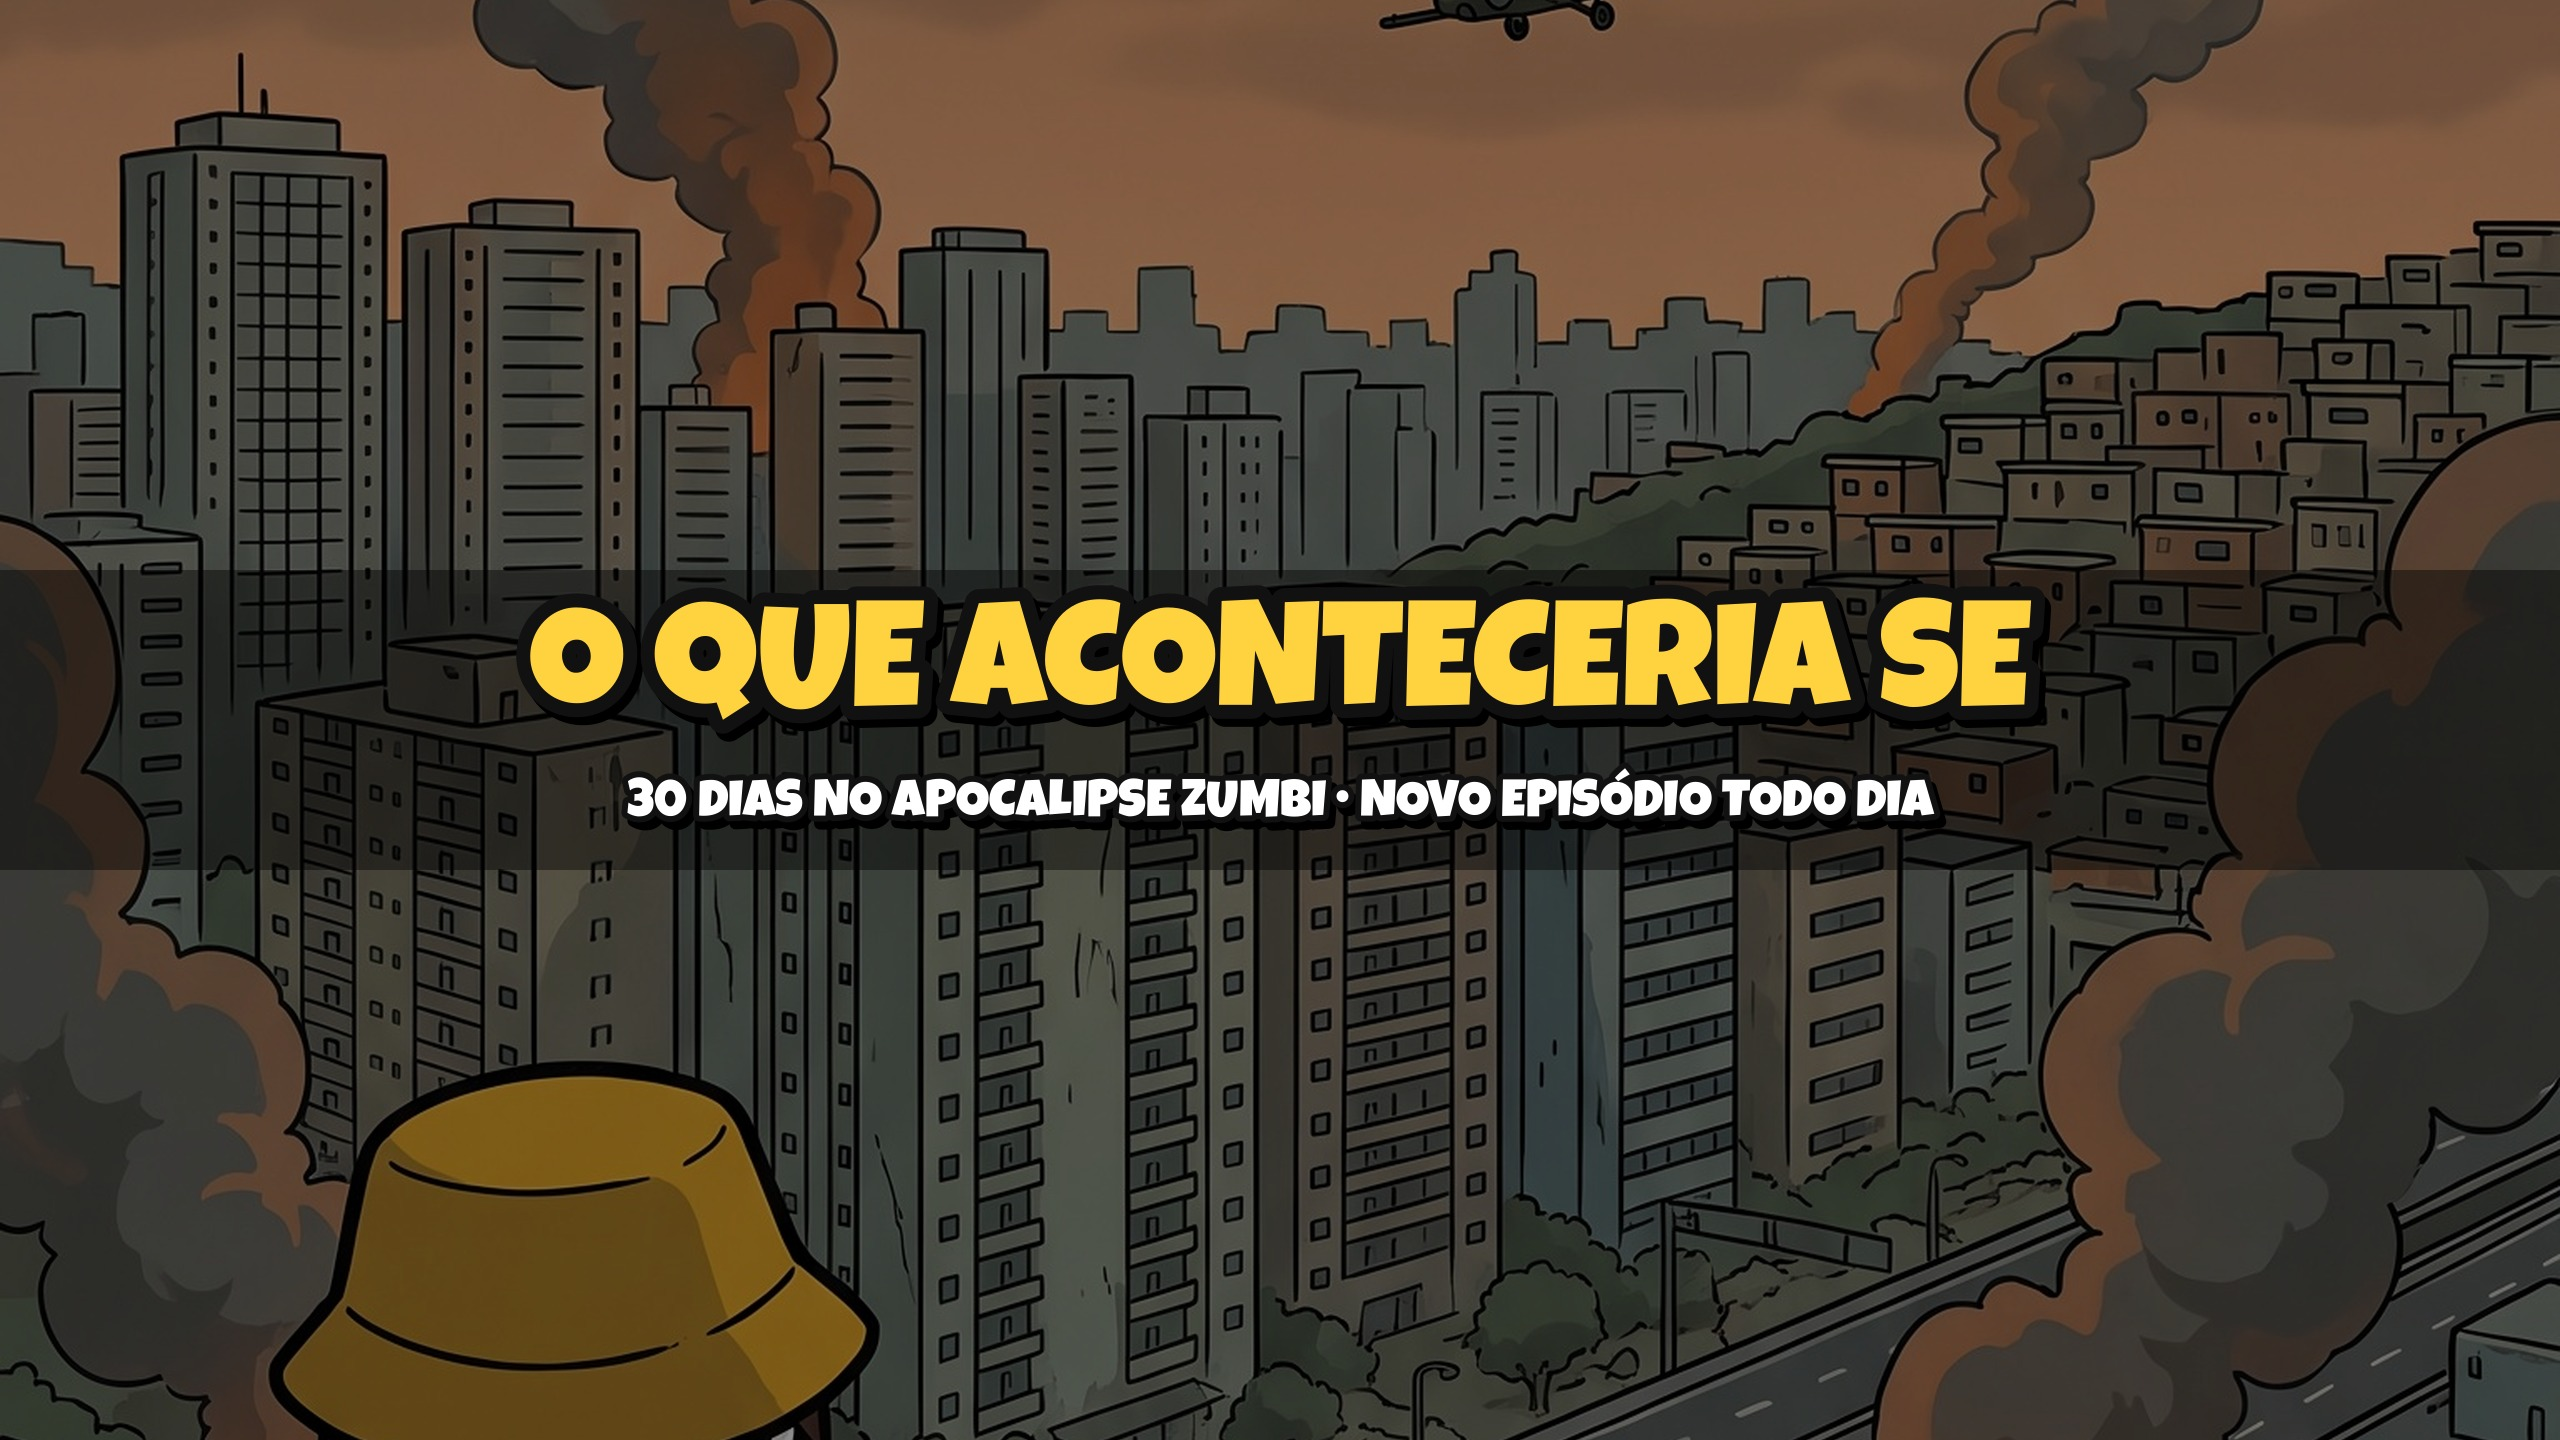
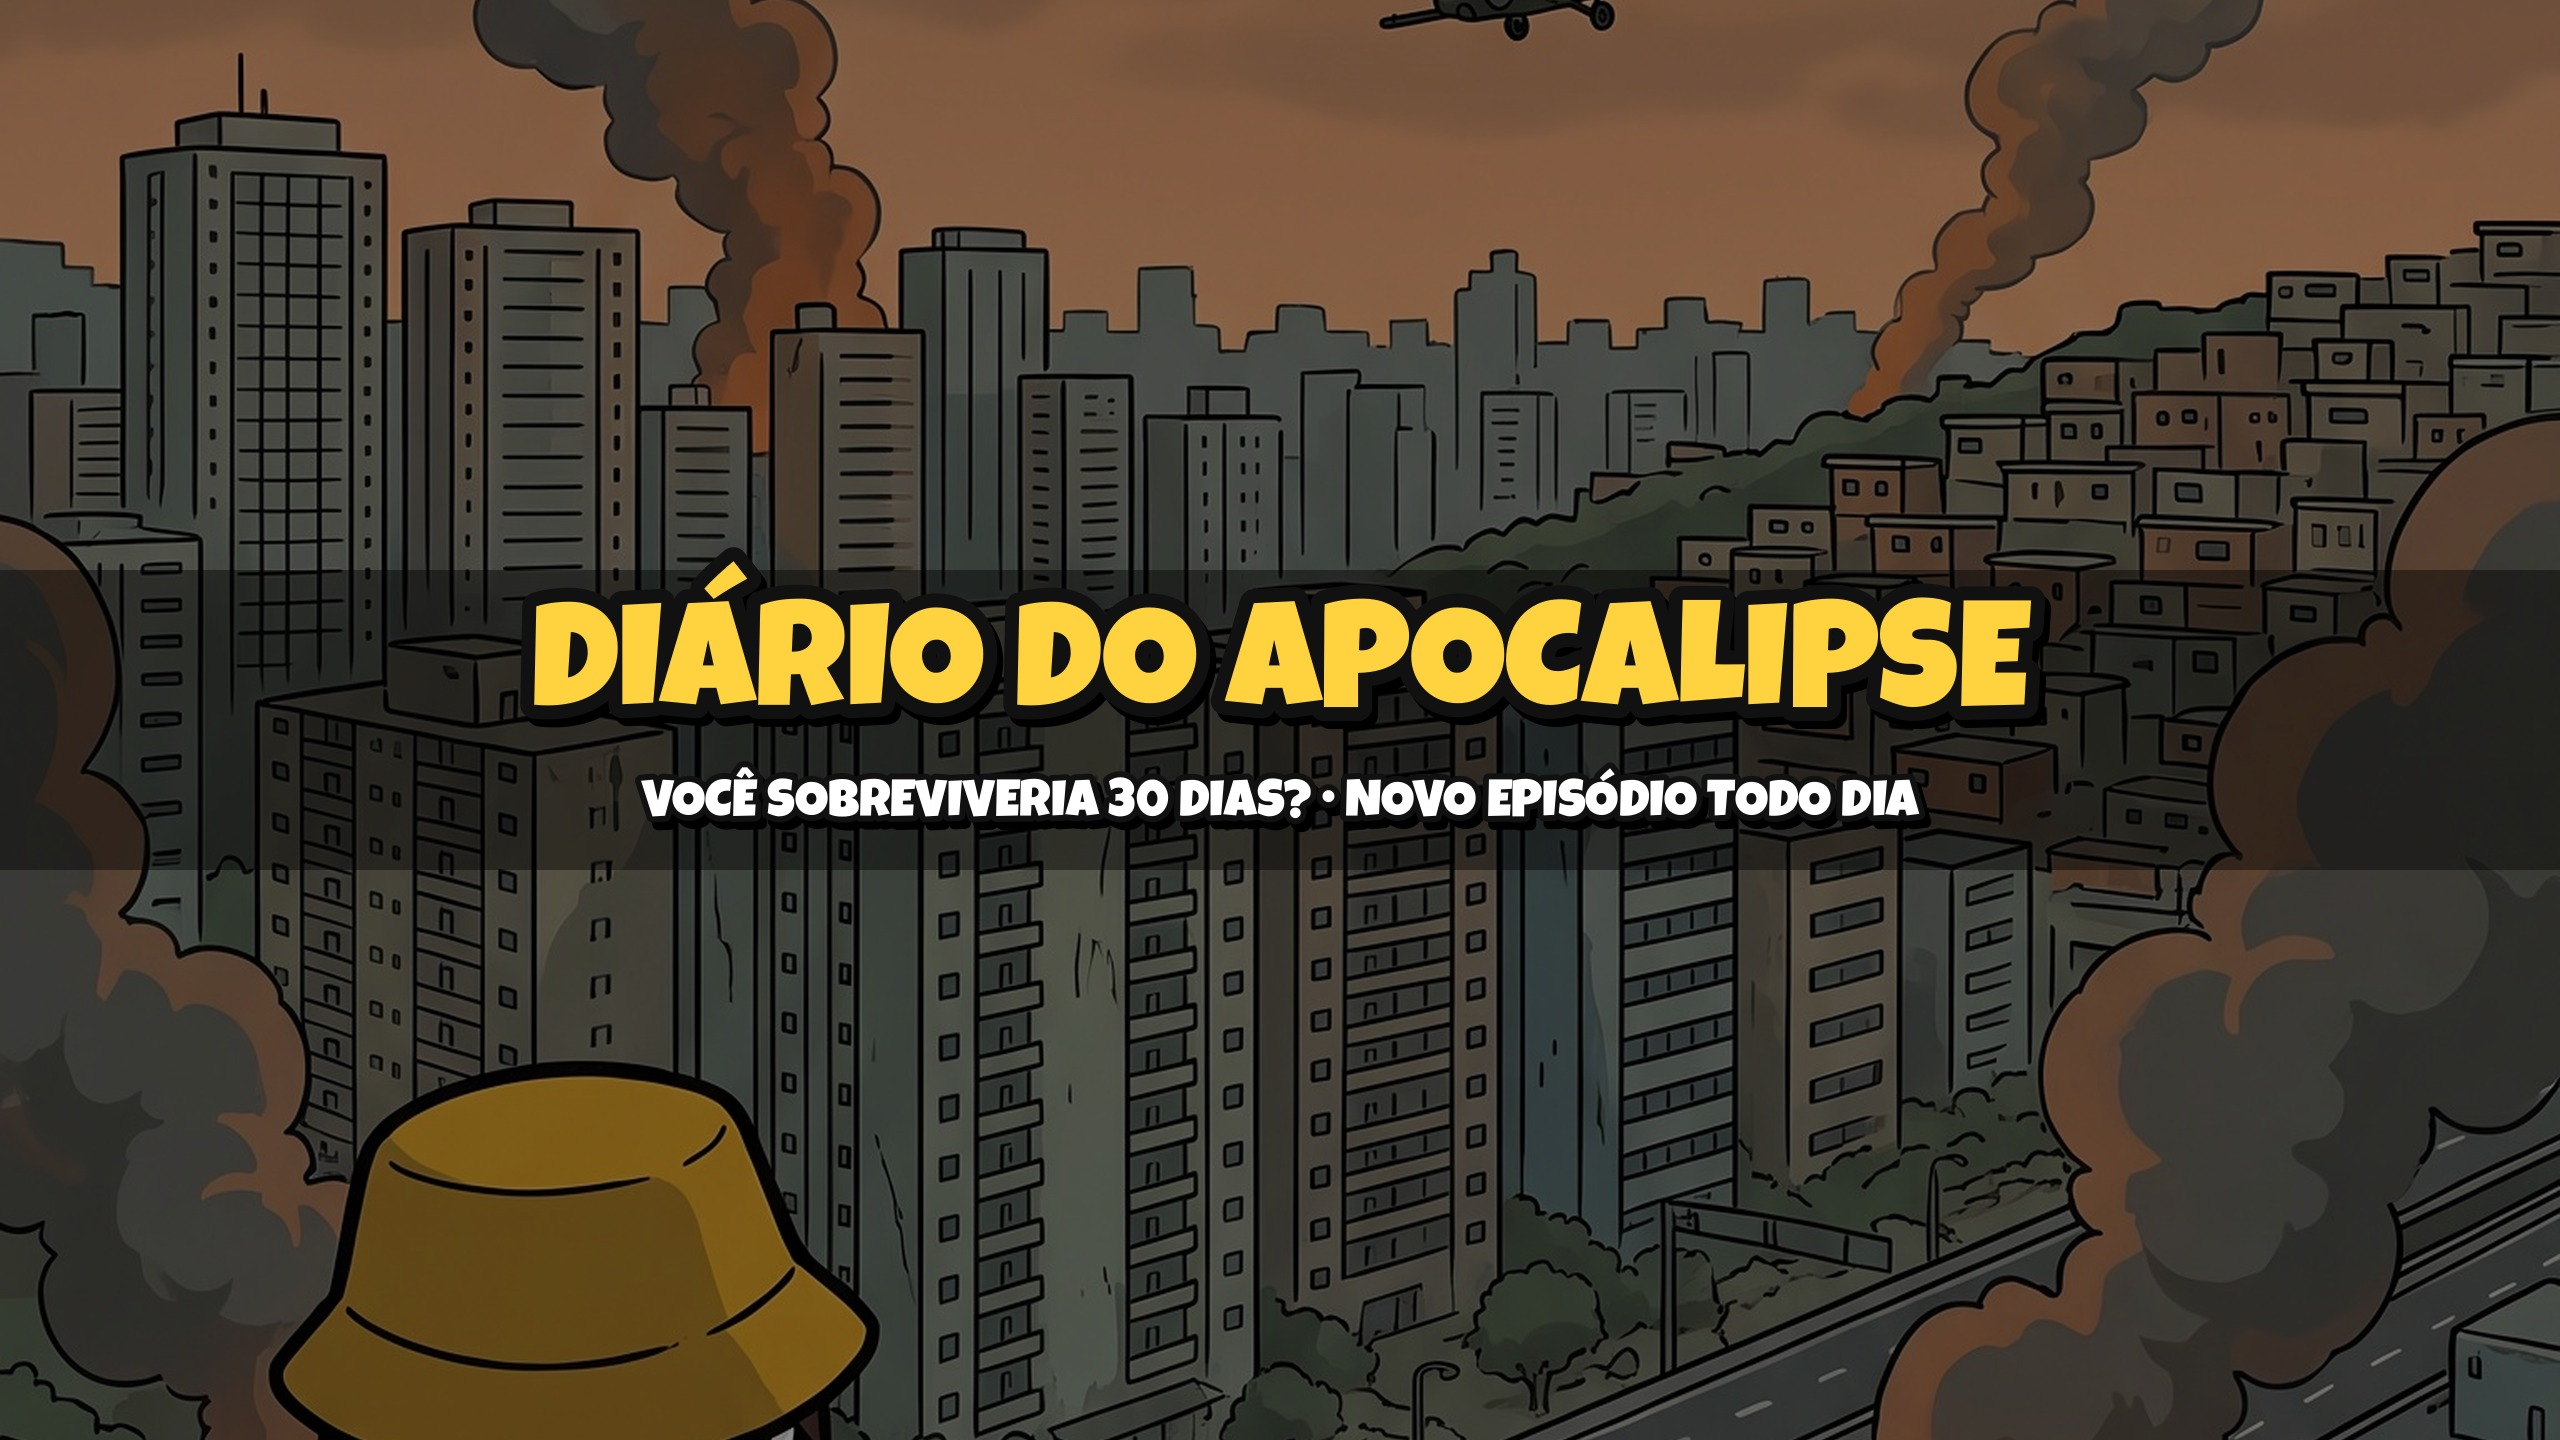
Apocalipse 30 dias: dedicated Instagram profile kit, YouTube rebranded to match
Claude-Session: https://claude.ai/code/session_012b6JD1nWYLGgg986qYVLAd

Changed region(s): [[0.1875, 0.375, 0.7812, 0.5938]]

diff --git a/films/apocalipse-30-dias/instagram/INSTAGRAM.md b/films/apocalipse-30-dias/instagram/INSTAGRAM.md
@@ -1,0 +1,49 @@
+# Perfil novo no Instagram (só a série)
+
+## Nome e @
+
+- **Nome:** Diário do Apocalipse Zumbi
+  (A busca do Instagram lê o nome, então quem procurar "apocalipse zumbi" te acha.)
+- **@:** diariodoapocalipse
+  - Se estiver ocupado: diariodoapocalipse.br → diario.do.apocalipse → apocalipsezumbi.br
+- **Por que esse nome:** um diário é "um dia por episódio". E continua servindo na temporada 2 (o Dia 31 que o Dia 30 promete), coisa que um nome com "30 dias" não faria.
+- **No YouTube:** use o mesmo nome e @. Assim é uma marca só nos dois lugares (`youtube/` já está com o banner novo).
+
+## Bio (copiar e colar)
+
+```
+🧟 E se o apocalipse zumbi começasse hoje no Brasil?
+📅 1 episódio = 1 dia
+🐕 Você e o Caramelo sobrevivem 30 dias?
+👇 Comece pelo Dia 1
+```
+
+- **Link:** o canal do YouTube.
+- **Categoria (conta profissional, de criador):** "Artista digital" ou "Criador de vídeos".
+
+## Imagens
+
+- **Foto de perfil:** `FOTO_PERFIL_1080.png` (você + o Caramelo, mãos de zumbi, céu em chamas)
+- **Capas dos destaques:**
+
+| Arquivo | Nome do destaque | O que guardar |
+|---|---|---|
+| `DESTAQUE_1_COMECE_AQUI.jpg` | COMECE AQUI | os Dias 1, 2 e 3 repostados nos Stories |
+| `DESTAQUE_2_BIA.jpg` | BIA | os episódios com a Bia |
+| `DESTAQUE_3_CARAMELO.jpg` | CARAMELO | os momentos do Caramelo (é o que mais compartilha) |
+| `DESTAQUE_4_CORONEL.jpg` | CORONEL | os episódios do vilão |
+| `DESTAQUE_5_REGRAS.jpg` | REGRAS | as regras dos zumbis + as enquetes |
+
+## Lançamento
+
+1. No primeiro dia, poste os Dias 1, 2 e 3 de uma vez. Quem chega no perfil maratona, e um perfil vazio não segura ninguém.
+2. Poste o Dia 1 como **Collab** com o @o_que_aconteceria_se: o vídeo aparece nos dois perfis e o público do antigo vem junto.
+3. Fixe o Dia 1 no topo da grade.
+4. Depois, 1 episódio por dia, sempre no mesmo horário (19h–21h costuma ser o pico).
+5. Repostar cada episódio nos Stories com a enquete do `.txt`.
+
+## Atenção: o botão "Seguir" dentro dos vídeos
+
+Os 8 vídeos prontos mostram **o_que_aconteceria_se** e o ícone "?" no botão animado do meio.
+
+Quando o @ novo estiver criado, me manda que eu troco nos 8. É só renderizar de novo: não gasta crédito do Higgsfield.

diff --git a/films/apocalipse-30-dias/youtube/YOUTUBE.md b/films/apocalipse-30-dias/youtube/YOUTUBE.md
@@ -2,10 +2,9 @@
 
 ## Nome, identificador e imagens
 
-- **Nome:** O Que Aconteceria Se (igual ao Instagram, pra quem te acha numa rede te reconhecer na outra)
-- **Identificador:** @oqueaconteceriase
-  - Se estiver ocupado: @o_que_aconteceria_se, depois @oqueaconteceriase.br
-- **Foto de perfil:** `FOTO_PERFIL_800x800.png`
+- **Nome:** Diário do Apocalipse Zumbi (o mesmo do perfil novo do Instagram; veja `instagram/INSTAGRAM.md`)
+- **Identificador:** @diariodoapocalipse (alternativas: @diariodoapocalipse.br, @diario.do.apocalipse)
+- **Foto de perfil:** `FOTO_PERFIL_800x800.png` (a mesma do Instagram novo)
 - **Banner:** `BANNER_YOUTUBE_2560x1440.jpg` (o texto fica dentro da área que aparece no celular)
 
 ## Descrição do canal (copiar e colar)
